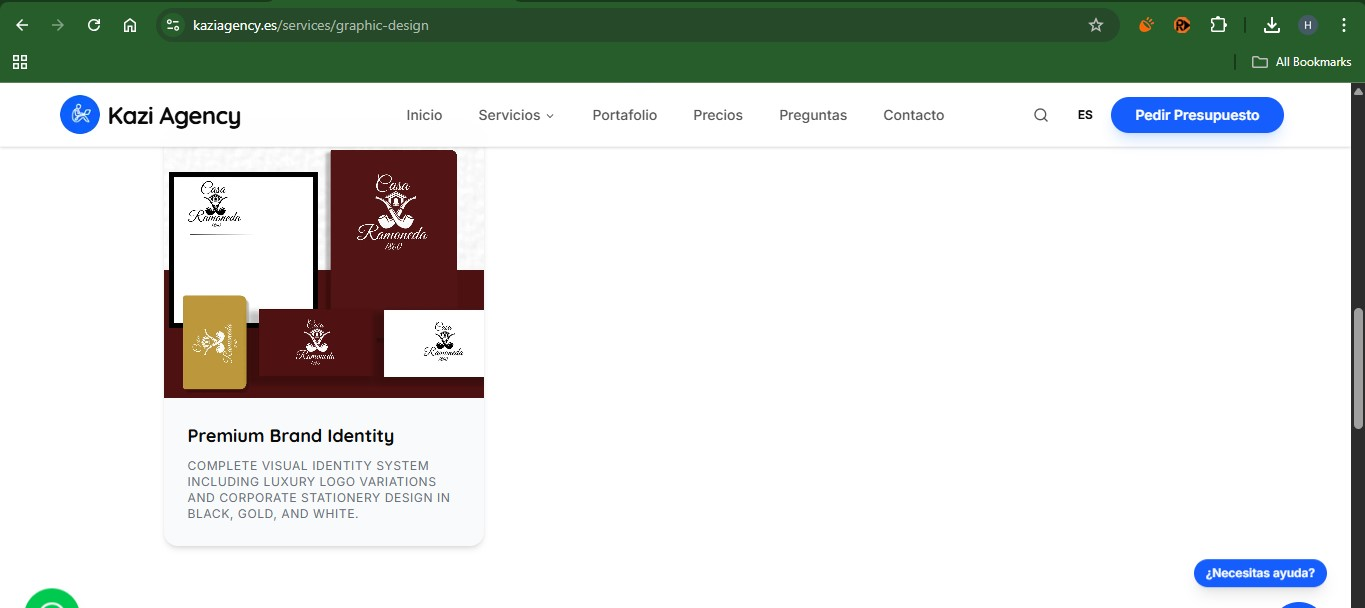
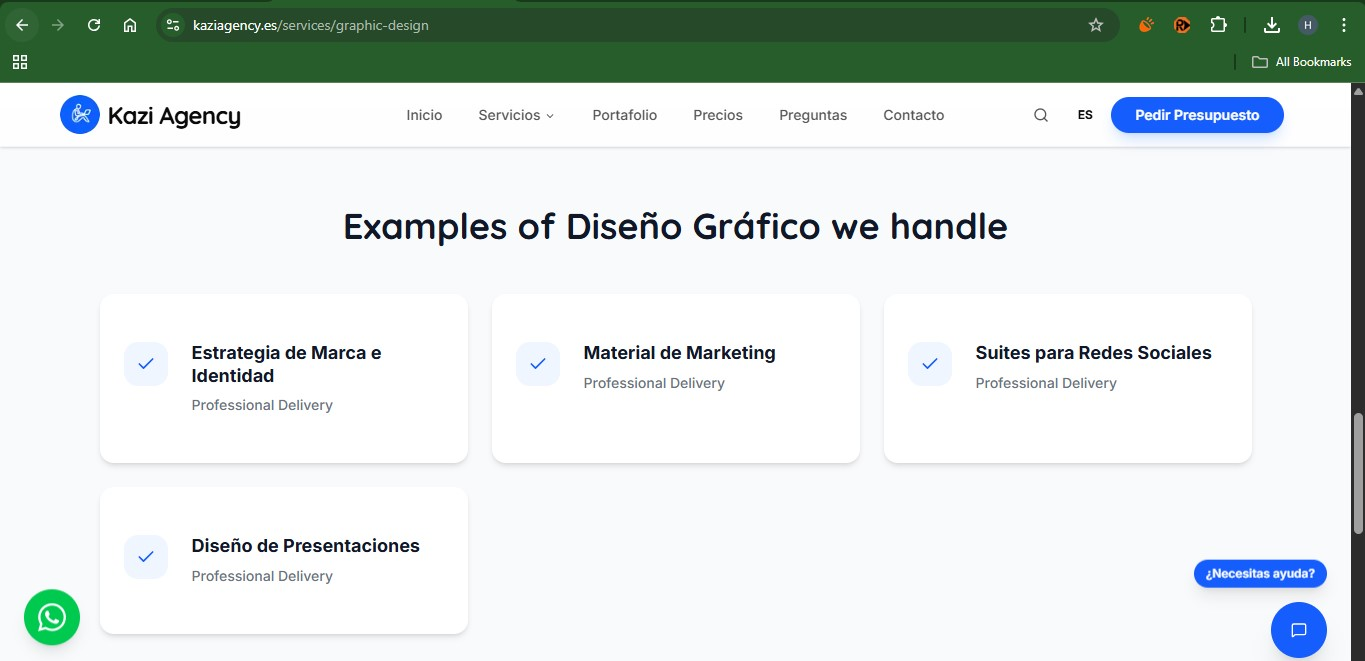
morning commit

diff --git a/lib/translations.ts b/lib/translations.ts
@@ -299,6 +299,7 @@ export const translations = {
       portfolioPlaceholder: "Portfolios are customized per client request to ensure relevance.",
       requestSamples: "Request Specific Samples",
       viewGeneralFaq: "View General FAQ",
+      professionalDelivery: "Professional Delivery",
       cta: {
         title: "Ready to build something great?",
         text: "Get a premium development team without the overhead. Start your project with Kazi today.",
@@ -1397,6 +1398,7 @@ export const translations = {
       portfolioPlaceholder: "Los portafolios se personalizan según la solicitud del cliente para garantizar relevancia.",
       requestSamples: "Solicitar Muestras Específicas",
       viewGeneralFaq: "Ver FAQ General",
+      professionalDelivery: "Entrega Profesional",
       cta: {
         title: "¿Listo para construir algo grandioso?",
         text: "Obtén un equipo de desarrollo premium sin los gastos generales. Comienza tu proyecto con Kazi hoy.",
@@ -2495,6 +2497,7 @@ export const translations = {
       portfolioPlaceholder: "Els portafolis es personalitzen segons la sol·licitud del client per garantir rellevància.",
       requestSamples: "Sol·licitar Mostres Específiques",
       viewGeneralFaq: "Veure FAQ General",
+      professionalDelivery: "Lliurament Professional",
       cta: {
         title: "A punt per construir alguna cosa gran?",
         text: "Obté un equip de desenvolupament prèmium sense les despeses generals. Comença el teu projecte amb Kazi avui.",

diff --git a/components/services/ServicePageTemplate.tsx b/components/services/ServicePageTemplate.tsx
@@ -369,7 +369,7 @@ export default function ServicePageTemplate({ service }: ServicePageTemplateProp
                     <CardTitle className="text-lg font-bold text-gray-900 mb-2 leading-tight group-hover:text-blue-600 transition-colors">
                       {item}
                     </CardTitle>
-                    <p className="text-sm text-gray-500 font-medium">Professional Delivery</p>
+                    <p className="text-sm text-gray-500 font-medium">{t.servicePage.professionalDelivery}</p>
                   </div>
                 </CardHeader>
               </Card>
